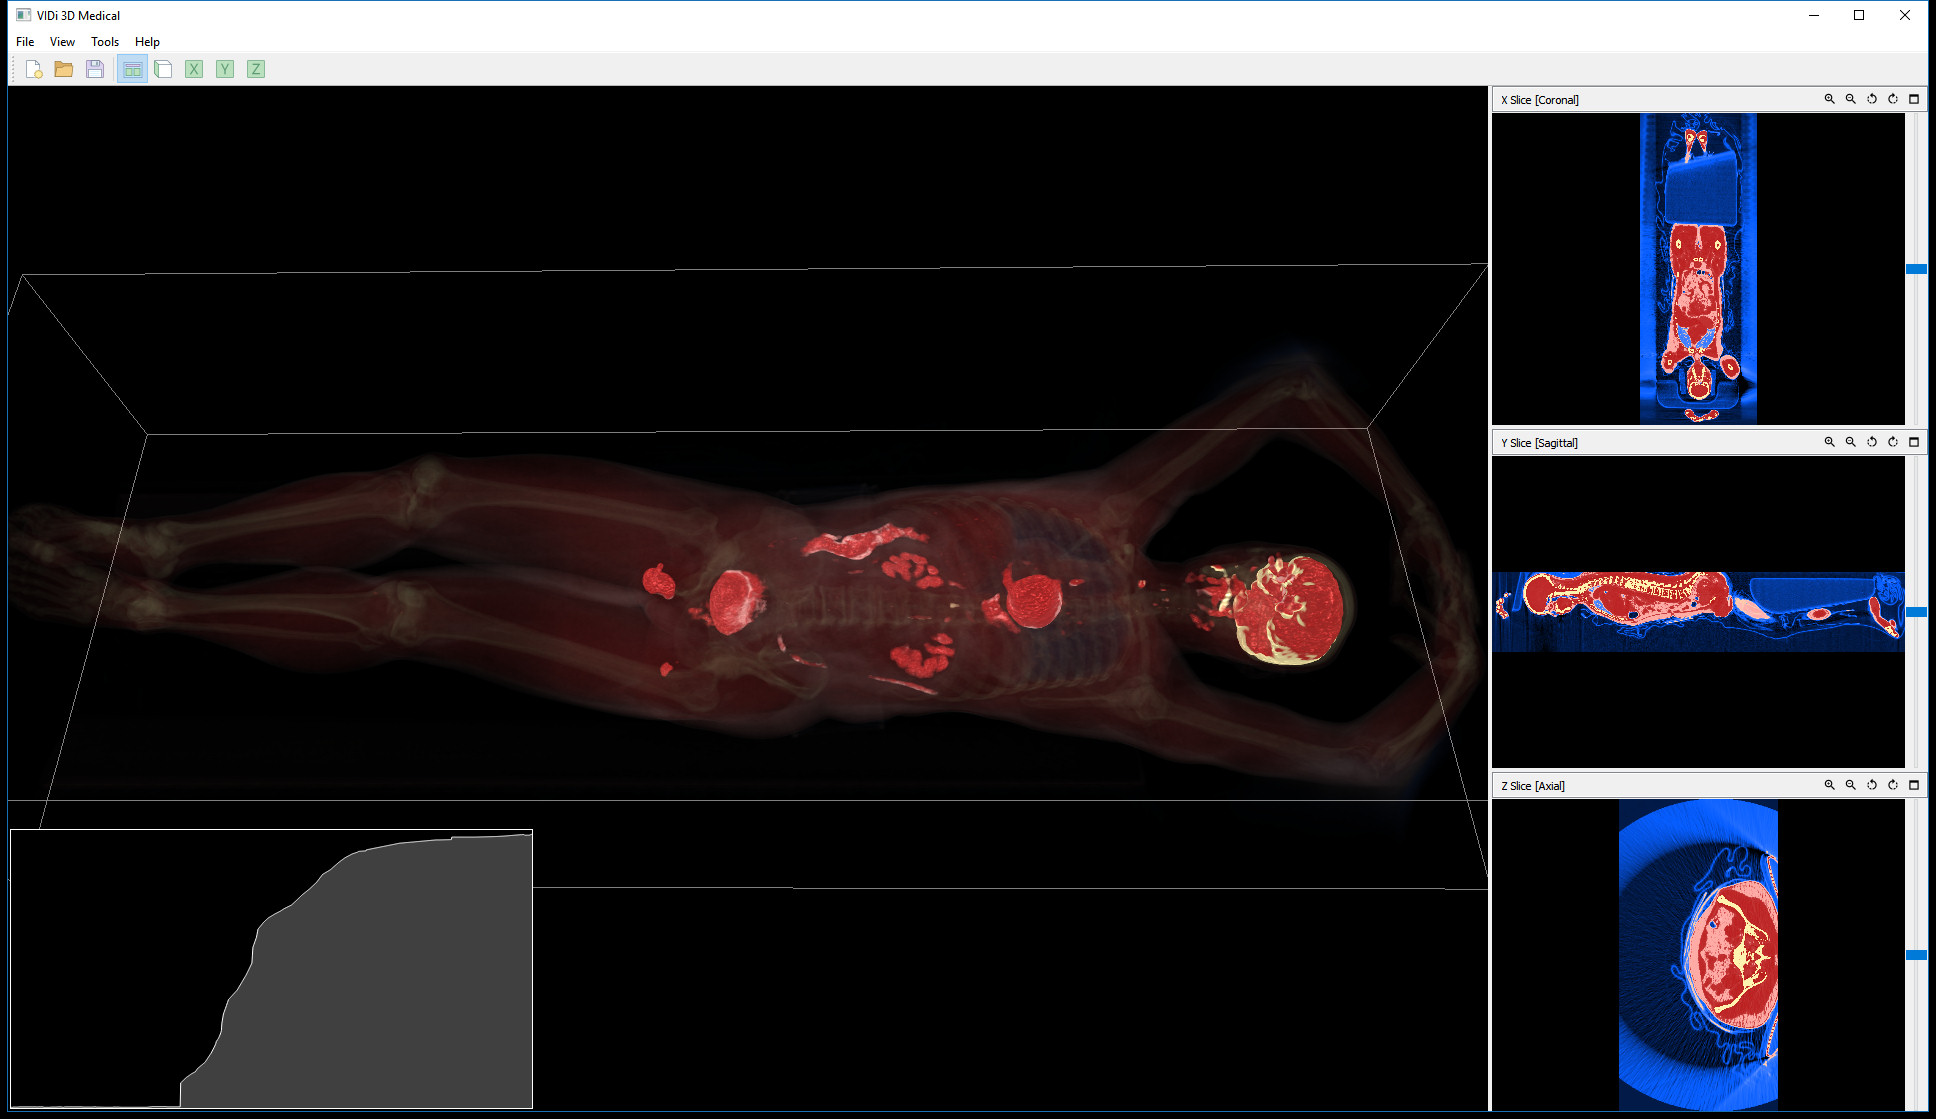
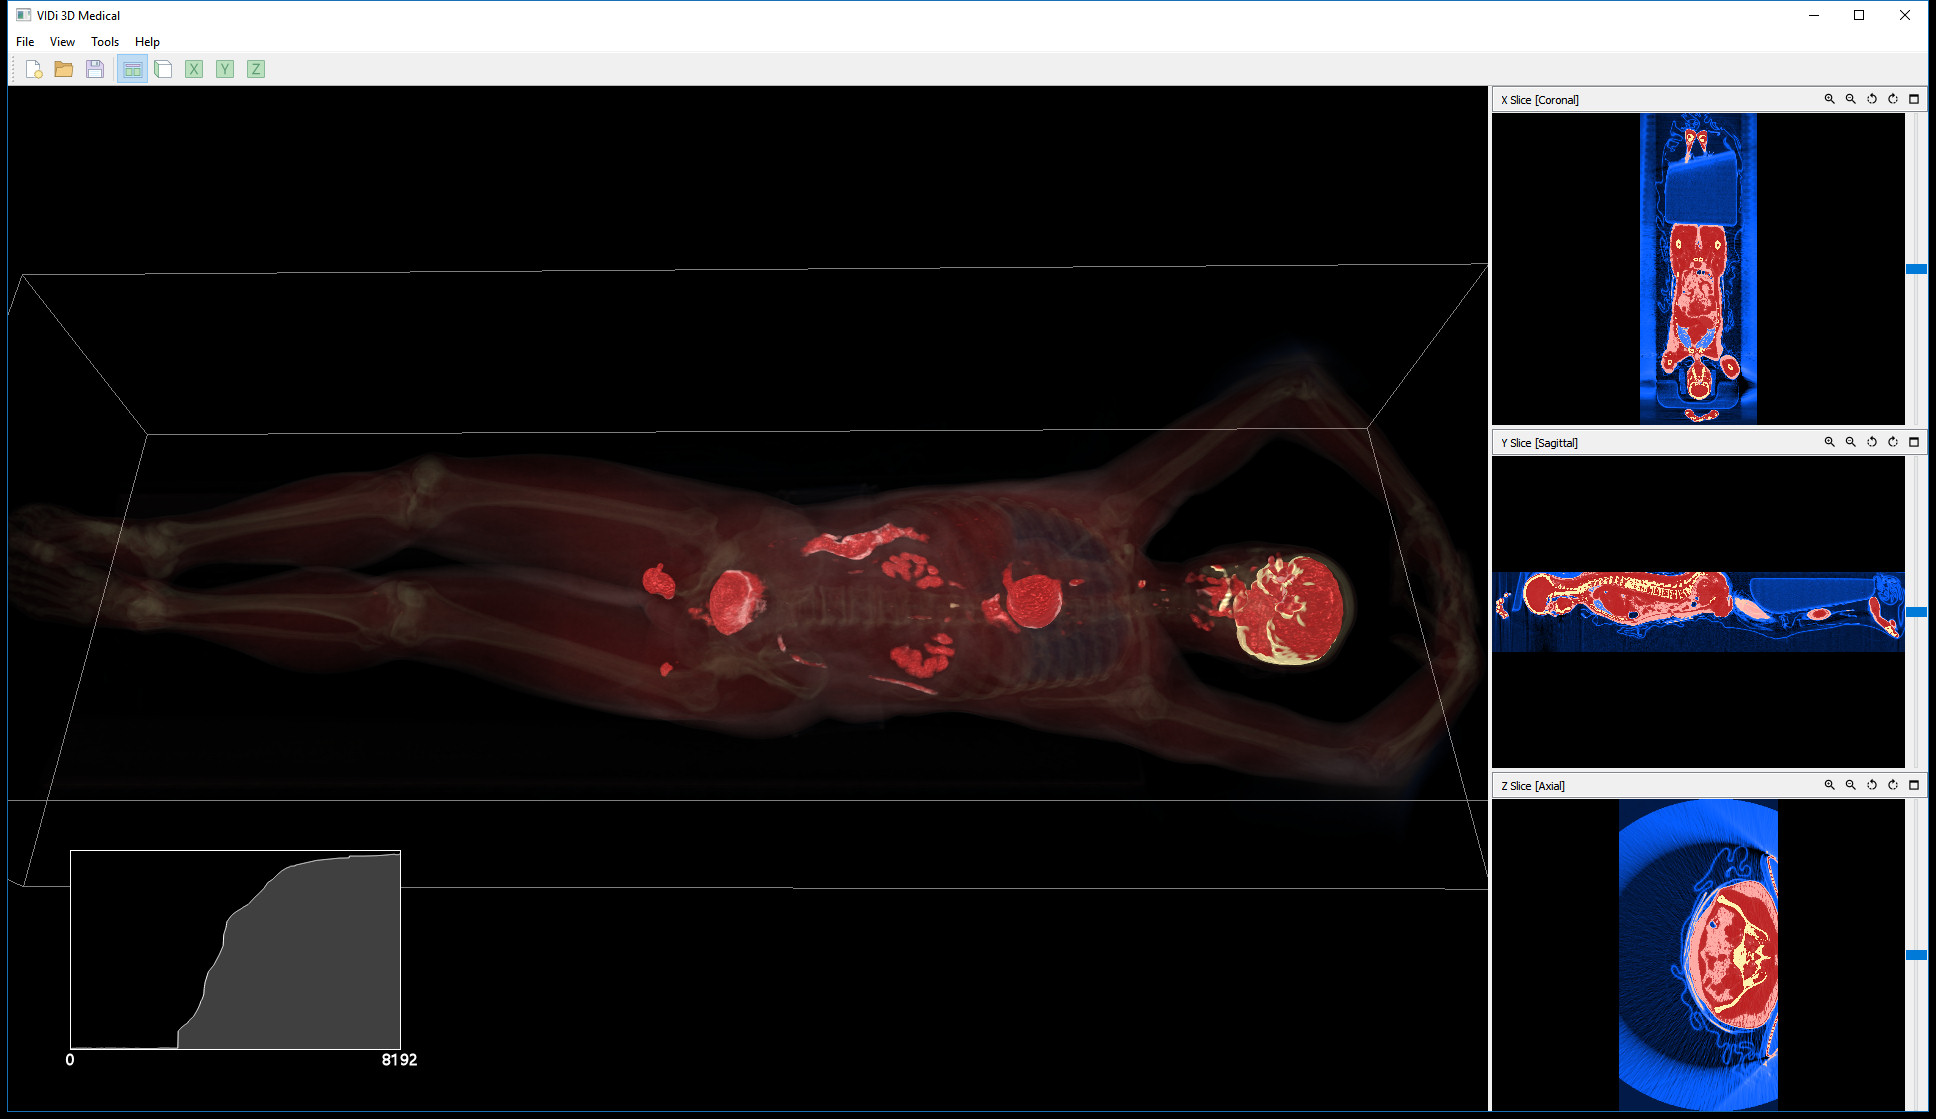
Redo the filtering function plot and update the descriptions

Changed region(s): [[0.062, 0.7292, 0.2789, 1.0]]

diff --git a/gallery/full_body_pet_ct/index.html b/gallery/full_body_pet_ct/index.html
@@ -6,7 +6,7 @@
     <meta http-equiv="X-UA-Compatible" content="IE=edge">
     <meta name="viewport" content="width=device-width, initial-scale=1">
 
-    <title>Full Body PET/CT Scans Volume Visualization</title>
+    <title>Volume Visualization of Full Body PET/CT Scans</title>
 
     <link rel="stylesheet" href="https://maxcdn.bootstrapcdn.com/bootstrap/3.3.7/css/bootstrap.min.css">
     <link href="https://fonts.googleapis.com/css?family=Droid+Sans:400,700" rel="stylesheet">
@@ -18,7 +18,7 @@
 
 <div class="container gallery-container">
 
-    <h1>Full Body PET/CT Scans Volume Visualization</h1>
+    <h1>Volume Visualization of Full Body PET/CT Scans</h1>
 
     <p class="page-description text-center">Visualization by <a href="https://vidi.cs.ucdavis.edu/">VIDi Labs</a></p>
     
@@ -66,7 +66,7 @@
                     </a>
                     <div class="caption">
                         <h3>PET Only</h3>
-                        <p>Colors show the intensity of the PET image.</p>
+                        <p>Colors show the intensity of the PET image. The original intensity range of the PET image is 0-65535 (16-bit); the range 0-8192 is selected for the visualization.</p>
                     </div>
                 </div>
             </div>
@@ -77,7 +77,7 @@
                     </a>
                     <div class="caption">
                         <h3>PET+CT</h3>
-                        <p>Colors show the intensity of the PET image. Bones are from the CT image.</p>
+                        <p>Volume renderings of the PET image and the CT image are combined. Colors show the intensity of the PET image. The original intensity range of the PET image is 0-65535 (16-bit); the range 0-8192 is selected for the visualization. Bones from the CT image can provide the locale information.</p>
                     </div>
                 </div>
             </div>
@@ -88,7 +88,7 @@
                     </a>
                     <div class="caption">
                         <h3>PET-filtered CT</h3>
-                        <p>The CT image is filtered by the PET image. Only the regions with high PET intensity are shown opaquely.</p>
+                        <p>The CT image is filtered by the PET image. Only the regions with high PET intensity values are shown opaquely. The plot at bottom-left shows the filtering function used; the x-axis is the PET image value while the y-axis represents opacity.</p>
                     </div>
                 </div>
             </div>
